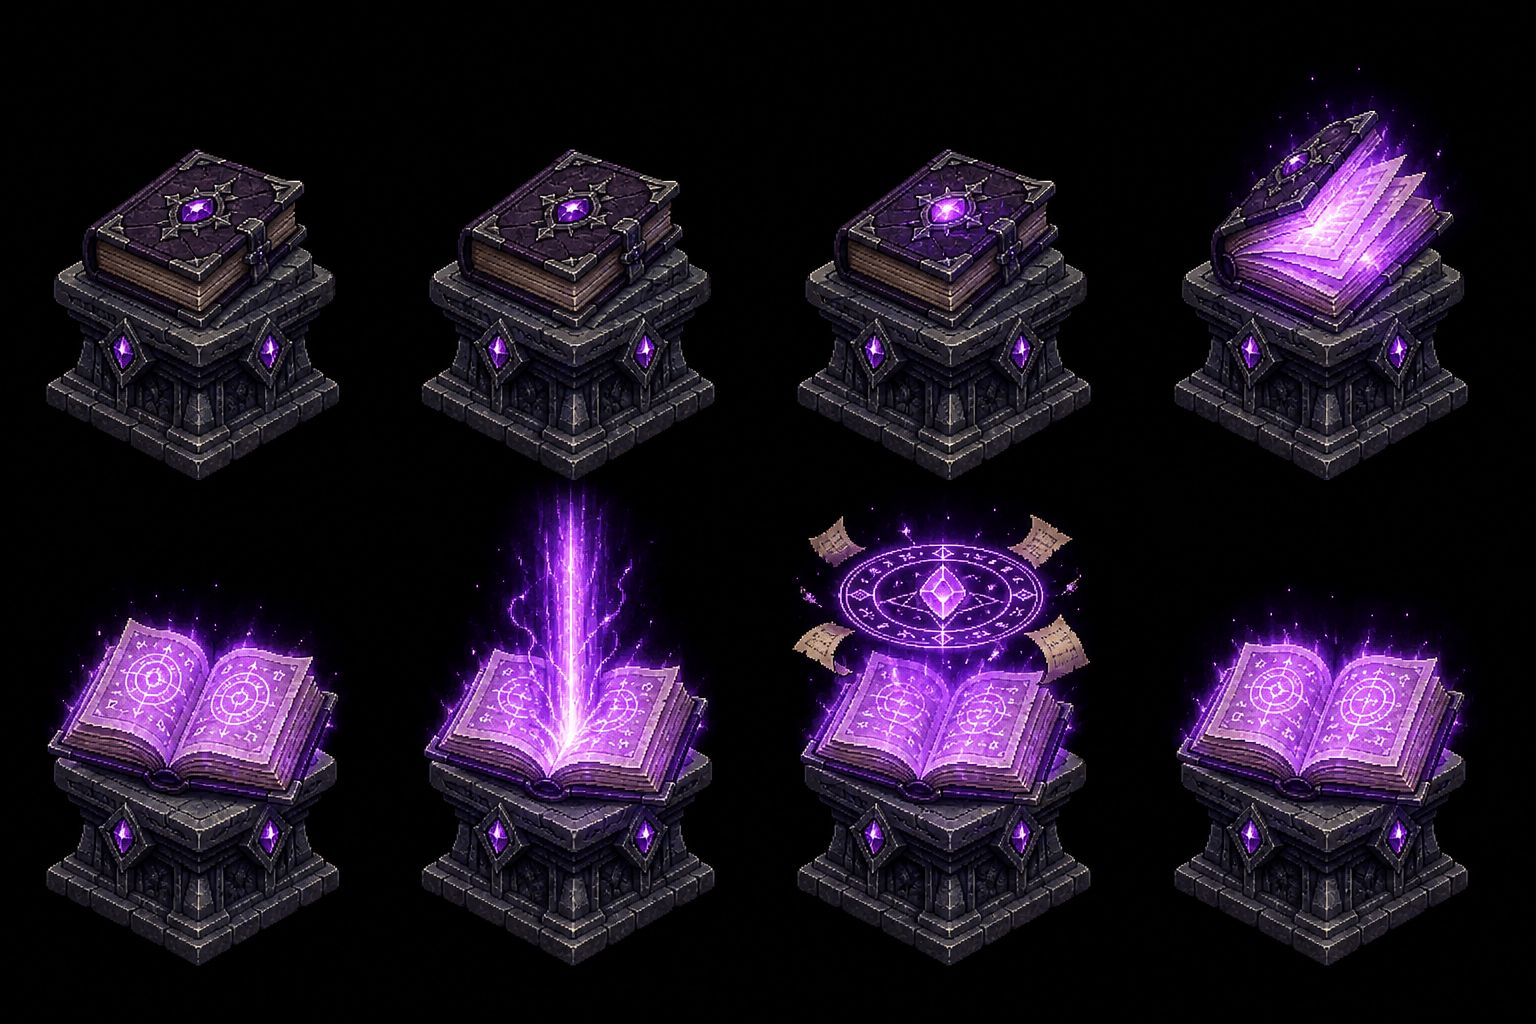
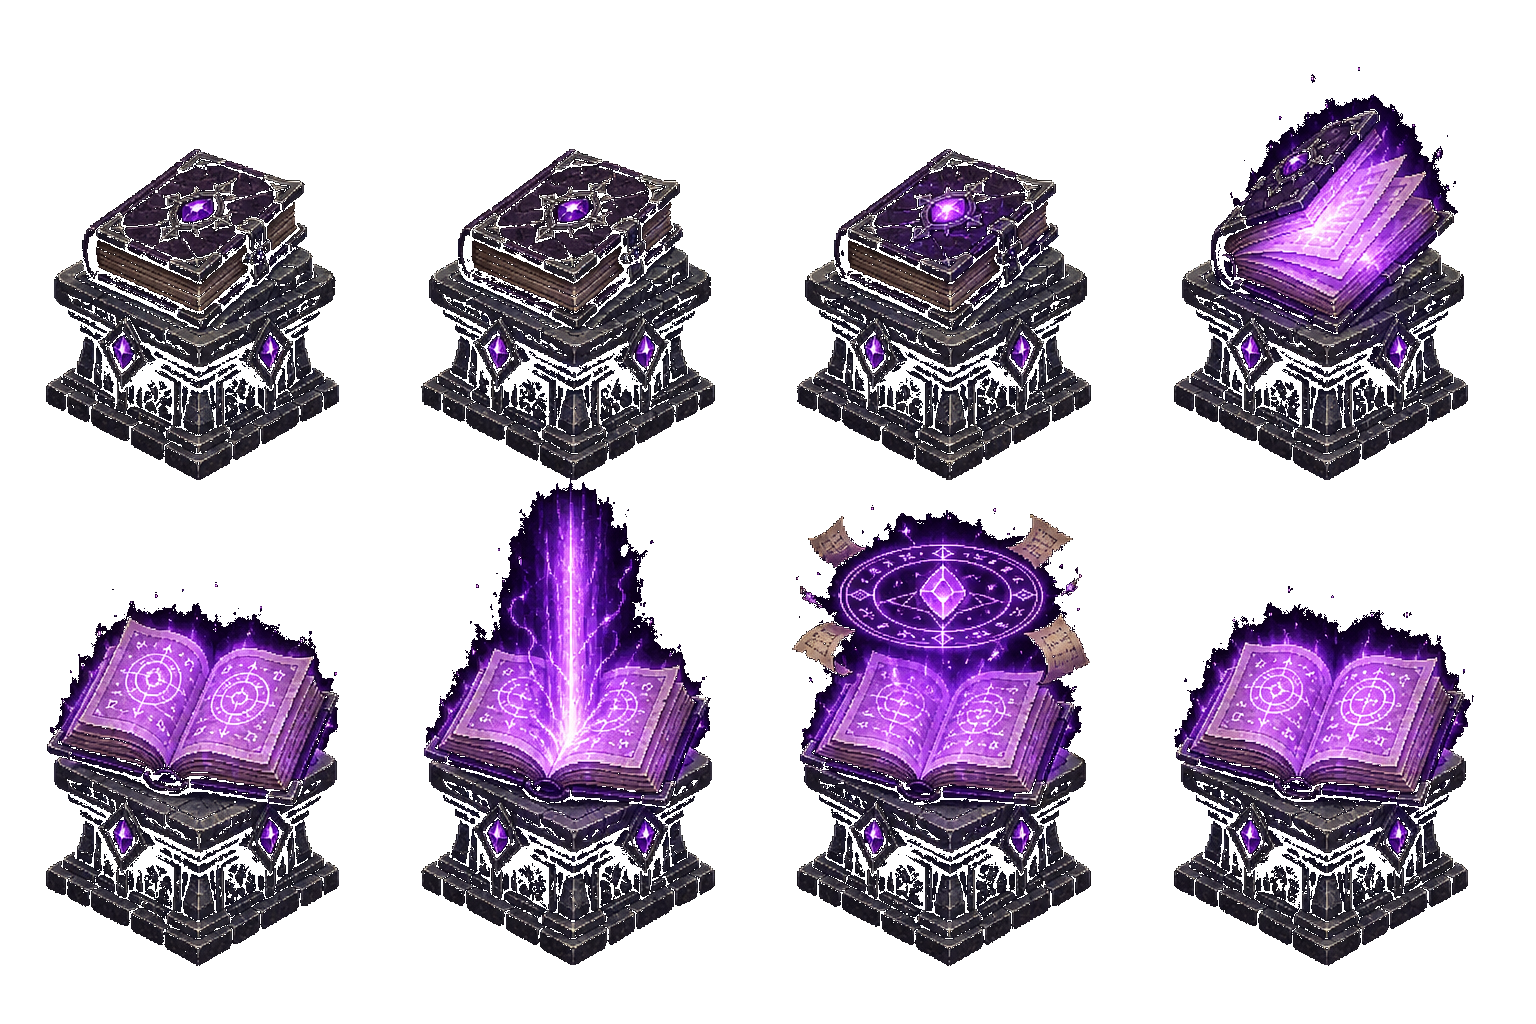
feat(hub): use user tome art and remove legacy lobby UI
Replace the generated tome sprite sheet with the user-provided asset,
add alpha transparency for the black background, and enable texture
read access for runtime frame slicing. Remove the unused black-panel
lobby UI from HubScreen now that the visual tile lobby handles join,
loadout, and run start.

diff --git a/Assets/Game/Scripts/Runtime/UI/HubScreen.cs b/Assets/Game/Scripts/Runtime/UI/HubScreen.cs
@@ -10,7 +10,7 @@ using UnityEngine.UI;
 namespace RealmShards.UI
 {
     /// <summary>
-    /// Hub: title attract → main menu → lobby with mixed-device join, loadout cycling, route length, controls, start run.
+    /// Hub: title attract → main menu → visual tile lobby.
     /// </summary>
     public sealed class HubScreen : MonoBehaviour
     {
@@ -30,25 +30,18 @@ namespace RealmShards.UI
         private HubState _state;
         private GameObject _attractPanel;
         private GameObject _menuPanel;
-        private GameObject _lobbyPanel;
         private CanvasGroup _attractGroup;
         private CanvasGroup _menuGroup;
         private CanvasGroup _menuButtonsGroup;
         private CanvasGroup _pressPromptGroup;
         private Image _transitionFlash;
         private Text _pressPrompt;
-        private Text _statusText;
-        private Text _loadoutText;
-        private Text _joinPrompt;
-        private Text[] _slotLabels;
         private Button _playButton;
         private RectTransform[] _menuButtonRects;
         private int _preCapital = 2;
         private float _promptBlinkTimer;
         private Coroutine _transitionRoutine;
         private LocalCoopLobby _lobby;
-        private InputAction _joinAction;
-        private InputAction _leaveAction;
 
         public static void EnsurePresent()
         {
@@ -66,20 +59,12 @@ namespace RealmShards.UI
                 ? GameContext.Instance.Lobby
                 : new LocalCoopLobby();
             _lobby.ResetAll();
+
+            if (GameContext.Instance != null)
+                _preCapital = Mathf.Clamp(GameContext.Instance.Save.Current.meta.preferredPreCapitalNodes, 1, 3);
+
             Build();
             ShowAttract();
-            HookJoinListening(true);
-        }
-
-        private void OnDestroy()
-        {
-            HookJoinListening(false);
-            InputSystem.onDeviceChange -= OnDeviceChange;
-        }
-
-        private void OnEnable()
-        {
-            InputSystem.onDeviceChange += OnDeviceChange;
         }
 
         private void Update()
@@ -193,85 +178,6 @@ namespace RealmShards.UI
             _transitionFlash.color = new Color(FlashColor.r, FlashColor.g, FlashColor.b, 0f);
             _transitionFlash.raycastTarget = false;
             flashGo.SetActive(false);
-
-            _lobbyPanel = new GameObject("LobbyPanel", typeof(RectTransform));
-            _lobbyPanel.transform.SetParent(safe.transform, false);
-            StretchFull(_lobbyPanel.GetComponent<RectTransform>());
-
-            UiFactory.AddPanel(_lobbyPanel.transform, "Background", new Color(0.08f, 0.09f, 0.12f, 1f),
-                Vector2.zero, Vector2.one, Vector2.zero, Vector2.zero);
-
-            UiFactory.AddText(_lobbyPanel.transform, "LobbyTitle", "Hub Lobby", 40, TextAnchor.MiddleCenter,
-                new Color(0.85f, 0.9f, 1f),
-                new Vector2(0.1f, 0.90f), new Vector2(0.9f, 0.98f), Vector2.zero, Vector2.zero);
-
-            _statusText = UiFactory.AddText(_lobbyPanel.transform, "Status", string.Empty, 18, TextAnchor.UpperLeft, Color.white,
-                new Vector2(0.05f, 0.58f), new Vector2(0.48f, 0.88f), Vector2.zero, Vector2.zero);
-
-            _joinPrompt = UiFactory.AddText(_lobbyPanel.transform, "JoinPrompt",
-                "Press Space / A to join · Backspace / B to leave",
-                18, TextAnchor.MiddleCenter, new Color(0.85f, 0.9f, 0.55f),
-                new Vector2(0.5f, 0.84f), new Vector2(0.95f, 0.90f), Vector2.zero, Vector2.zero);
-
-            _slotLabels = new Text[4];
-            for (var i = 0; i < 4; i++)
-            {
-                var yMax = 0.82f - i * 0.08f;
-                var yMin = yMax - 0.07f;
-                _slotLabels[i] = UiFactory.AddText(_lobbyPanel.transform, $"Slot{i}", $"P{i + 1} — Empty", 20,
-                    TextAnchor.MiddleLeft, Color.white,
-                    new Vector2(0.52f, yMin), new Vector2(0.95f, yMax), Vector2.zero, Vector2.zero);
-            }
-
-            _loadoutText = UiFactory.AddText(_lobbyPanel.transform, "Loadout", string.Empty, 18, TextAnchor.UpperLeft,
-                new Color(0.8f, 0.85f, 0.9f),
-                new Vector2(0.05f, 0.28f), new Vector2(0.48f, 0.56f), Vector2.zero, Vector2.zero);
-
-            for (int slot = 0; slot < 4; slot++)
-            {
-                int captured = slot;
-                float x0 = 0.05f + slot * 0.11f;
-                var cycle = UiFactory.AddButton(_lobbyPanel.transform, $"Cycle{slot}", $"Slot {slot + 1}",
-                    new Vector2(x0, 0.20f), new Vector2(x0 + 0.10f, 0.27f), Vector2.zero, Vector2.zero,
-                    new Color(0.18f, 0.28f, 0.38f, 1f));
-                cycle.GetComponentInChildren<Text>().fontSize = 16;
-                cycle.onClick.AddListener(() => CycleLoadoutSlot(captured));
-            }
-
-            var nodesBtn = UiFactory.AddButton(_lobbyPanel.transform, "Nodes", "Cities before Capital: 2",
-                new Vector2(0.52f, 0.22f), new Vector2(0.95f, 0.30f), Vector2.zero, Vector2.zero,
-                new Color(0.22f, 0.28f, 0.36f, 1f));
-            nodesBtn.GetComponentInChildren<Text>().fontSize = 18;
-            nodesBtn.onClick.AddListener(() =>
-            {
-                _preCapital = _preCapital >= 3 ? 1 : _preCapital + 1;
-                nodesBtn.GetComponentInChildren<Text>().text = $"Cities before Capital: {_preCapital}";
-                if (GameContext.Instance != null)
-                    GameContext.Instance.Save.Current.meta.preferredPreCapitalNodes = _preCapital;
-            });
-
-            var startRun = UiFactory.AddButton(_lobbyPanel.transform, "StartRun", "Start Run",
-                new Vector2(0.55f, 0.06f), new Vector2(0.95f, 0.16f), Vector2.zero, Vector2.zero,
-                new Color(0.15f, 0.45f, 0.32f, 1f));
-            startRun.onClick.AddListener(OnStartRun);
-
-            var controls = UiFactory.AddButton(_lobbyPanel.transform, "Controls", "Controls",
-                new Vector2(0.28f, 0.06f), new Vector2(0.52f, 0.14f), Vector2.zero, Vector2.zero);
-            controls.onClick.AddListener(OpenControls);
-
-            var saveBtn = UiFactory.AddButton(_lobbyPanel.transform, "SaveNow", "Save",
-                new Vector2(0.05f, 0.06f), new Vector2(0.25f, 0.14f), Vector2.zero, Vector2.zero);
-            saveBtn.onClick.AddListener(() =>
-            {
-                GameContext.Instance?.Save.Save();
-                Refresh();
-            });
-
-            if (GameContext.Instance != null)
-            {
-                _preCapital = Mathf.Clamp(GameContext.Instance.Save.Current.meta.preferredPreCapitalNodes, 1, 3);
-                nodesBtn.GetComponentInChildren<Text>().text = $"Cities before Capital: {_preCapital}";
-            }
         }
 
         private void BeginMenuTransition()
@@ -404,55 +310,6 @@ namespace RealmShards.UI
             OptionsScreen.EnsurePresent(transform).Show();
         }
 
-        private void OpenControls()
-        {
-            OpenSettings();
-        }
-
-        private void TryJoinDevice(InputDevice device, string scheme)
-        {
-            if (_lobby.TryJoin(device, scheme, out _, out var fail))
-            {
-                Refresh();
-            }
-            else if (!string.IsNullOrEmpty(fail) && fail != "Device already in use.")
-            {
-                if (_joinPrompt != null)
-                    _joinPrompt.text = fail;
-            }
-        }
-
-        private void CycleLoadoutSlot(int slot)
-        {
-            var ctx = GameContext.Instance;
-            if (ctx == null) return;
-            var unlocked = ctx.Save.Current.meta.unlockedAbilityIds;
-            if (unlocked == null) return;
-
-            var equipped = ctx.Save.Current.meta.equippedAbilityIds;
-            while (equipped.Count < 4) equipped.Add(string.Empty);
-
-            // Cycle: (empty) → each unlocked spell → back to empty.
-            var options = new System.Collections.Generic.List<string>(unlocked.Count + 1) { string.Empty };
-            for (int i = 0; i < unlocked.Count; i++)
-            {
-                if (string.IsNullOrEmpty(unlocked[i])) continue;
-                if (!options.Contains(unlocked[i]))
-                    options.Add(unlocked[i]);
-            }
-
-            string current = equipped[slot] ?? string.Empty;
-            // Drop unequipped/locked leftovers so cycling never sticks on Arcane Bolt.
-            if (!string.IsNullOrEmpty(current) && !options.Contains(current))
-                current = string.Empty;
-
-            int idx = options.IndexOf(current);
-            if (idx < 0) idx = 0;
-            idx = (idx + 1) % options.Count;
-            ctx.Progression.SetEquippedAbility(slot, options[idx], saveImmediately: true);
-            Refresh();
-        }
-
         private static void StretchFull(RectTransform rt)
         {
             rt.anchorMin = Vector2.zero;
@@ -469,7 +326,6 @@ namespace RealmShards.UI
             _menuPanel.SetActive(false);
             _menuGroup.alpha = 0f;
             _menuButtonsGroup.alpha = 0f;
-            _lobbyPanel.SetActive(false);
             if (_pressPromptGroup != null)
             {
                 _pressPromptGroup.alpha = 1f;
@@ -482,8 +338,6 @@ namespace RealmShards.UI
             _state = HubState.Lobby;
             _attractPanel.SetActive(false);
             _menuPanel.SetActive(false);
-            if (_lobbyPanel != null)
-                _lobbyPanel.SetActive(false);
 
             var canvas = GetComponent<Canvas>();
             if (canvas != null)
@@ -531,81 +385,6 @@ namespace RealmShards.UI
             }
 
             return false;
-        }
-
-        private void Refresh()
-        {
-            var ctx = GameContext.Instance;
-            if (ctx == null || _statusText == null) return;
-
-            var meta = ctx.Save.Current.meta;
-            _statusText.text =
-                $"Year: {meta.year}   Decade: {meta.decade}\n" +
-                $"Arcane Vestiges: {meta.arcaneVestiges}\n" +
-                $"Players joined: {_lobby.JoinedCount}/4\n" +
-                $"Save: {ctx.Save.SaveFilePath}";
-
-            var loadout = "Loadout (unlocked spells)\n";
-            for (var i = 0; i < meta.equippedAbilityIds.Count && i < 4; i++)
-            {
-                var id = meta.equippedAbilityIds[i];
-                var label = string.IsNullOrEmpty(id) ? "(empty)" : ctx.Content.GetDisplayName(id, id);
-                loadout += $"  [{i + 1}] {label}\n";
-            }
-
-            loadout += "\nTap Slot buttons to cycle (includes Empty).";
-            _loadoutText.text = loadout;
-
-            Color[] colors =
-            {
-                new Color(0.72f, 0.45f, 0.95f),
-                new Color(0.35f, 0.82f, 0.42f),
-                new Color(0.95f, 0.82f, 0.28f),
-                new Color(0.92f, 0.28f, 0.28f)
-            };
-
-            for (var i = 0; i < _slotLabels.Length; i++)
-            {
-                var slot = _lobby.GetSlot(i);
-                _slotLabels[i].color = colors[i];
-                _slotLabels[i].text = slot.Joined
-                    ? $"P{i + 1} — Joined ({slot.DeviceLabel})"
-                    : $"P{i + 1} — Empty";
-            }
-
-            if (_joinPrompt != null)
-                _joinPrompt.text = "Press Space / A to join · Backspace / B to leave";
-        }
-
-        private void OnStartRun()
-        {
-            var ctx = GameContext.Instance;
-            if (ctx == null) return;
-
-            int count = Mathf.Max(1, _lobby.JoinedCount);
-            // If nobody joined yet, auto-join keyboard as P1 for convenience.
-            if (_lobby.JoinedCount == 0 && Keyboard.current != null)
-                _lobby.TryJoin(Keyboard.current, "Keyboard&Mouse", out _, out _);
-
-            count = Mathf.Max(1, _lobby.JoinedCount);
-            ctx.Save.Current.settings.localPlayerCount = count;
-            ctx.Runs.BeginWorldRun(_preCapital, count);
-        }
-
-        private void OnDeviceChange(InputDevice device, InputDeviceChange change)
-        {
-            if (change == InputDeviceChange.Removed || change == InputDeviceChange.Disconnected)
-            {
-                _lobby?.HandleDeviceLost(device);
-                Refresh();
-            }
-        }
-
-        private void HookJoinListening(bool enabled)
-        {
-            _ = enabled;
-            _ = _joinAction;
-            _ = _leaveAction;
         }
     }
 }
